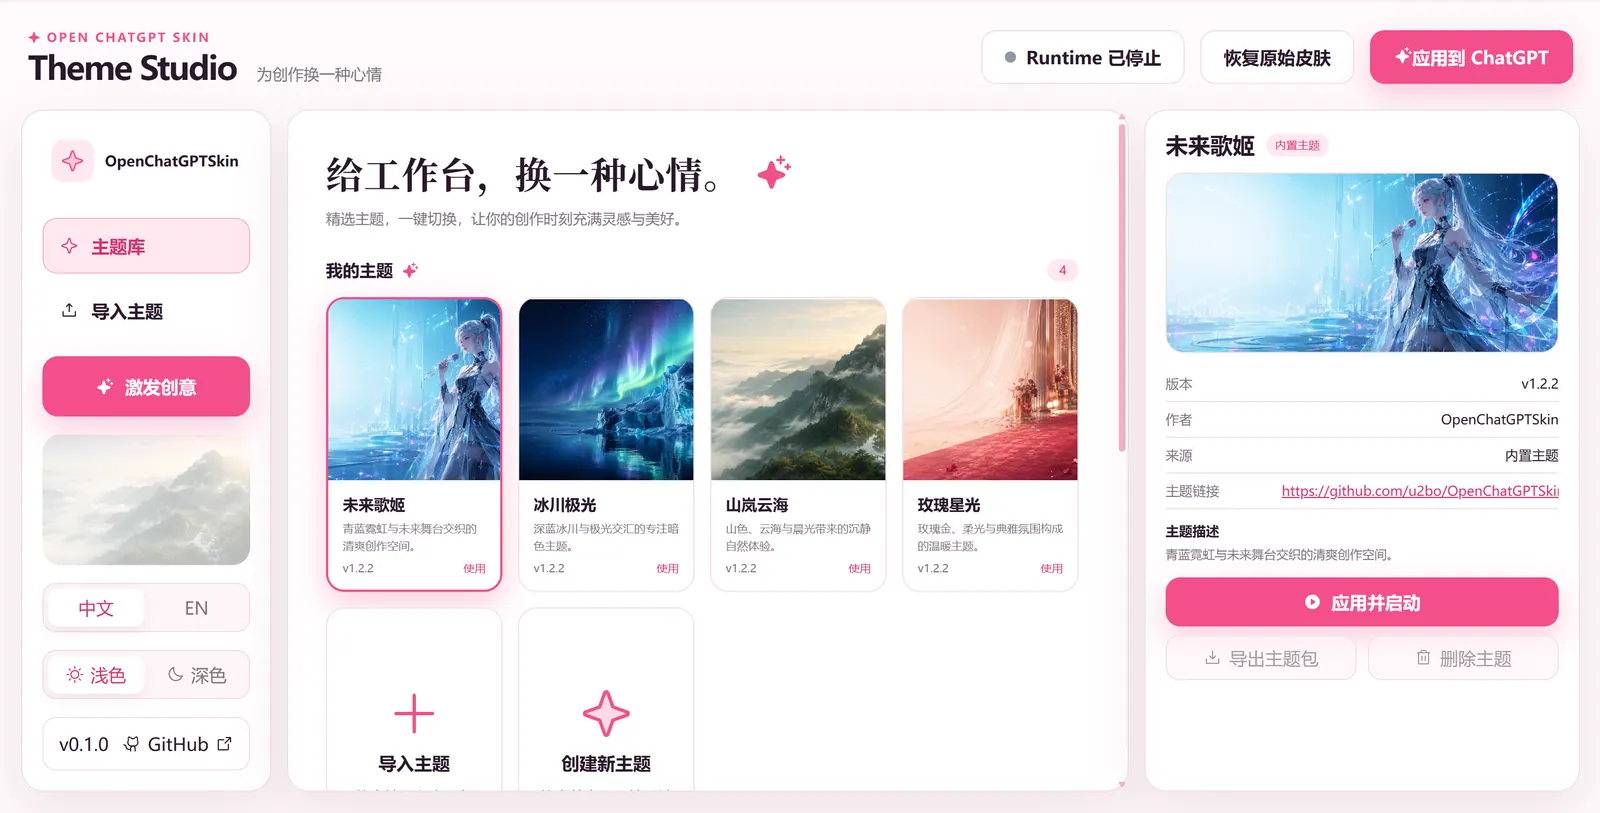
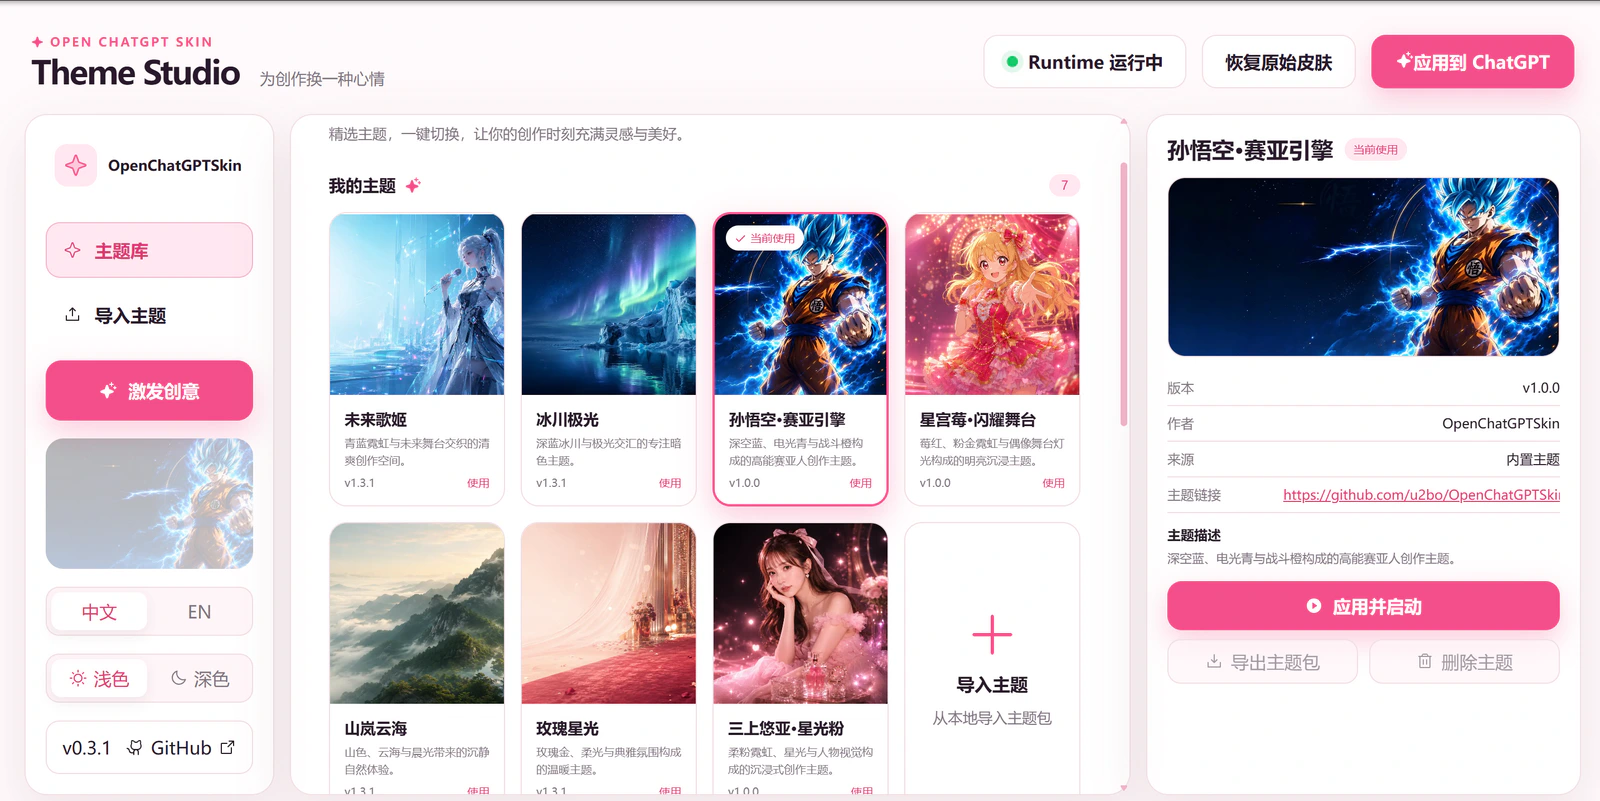
docs: refresh theme readme

diff --git a/tests/docs.test.ts b/tests/docs.test.ts
@@ -63,11 +63,16 @@ describe("project documentation", () => {
       "docs/assets/screenshots/index1.webp", "docs/assets/screenshots/index2.webp",
       "docs/assets/screenshots/hoshimiya-ichigo-shining-stage-real.png",
       "docs/assets/screenshots/goku-saiyan-engine-real.png",
-      "docs/assets/concepts/super-saiyan-goku.png",
       "CONTRIBUTING.md", "MIT License",
     ]) expect(readme).toContain(required);
     expect(readme).not.toContain("docs/assets/concepts/ichigo-hoshimiya.png");
+    expect(readme).not.toContain("docs/assets/concepts/super-saiyan-goku.png");
     expect(readmeEn).toContain("README.md");
+    for (const document of [readme, readmeEn]) {
+      expect(document.indexOf("hoshimiya-ichigo-shining-stage")).toBeLessThan(
+        document.indexOf("yua-mikami-starlight"),
+      );
+    }
     expect(readme).toContain("https://linux.do/");
     expect(readmeEn).toContain("https://linux.do/");
     expect(guide).toContain("Theme Schema v4");

diff --git a/README.en.md b/README.en.md
@@ -30,24 +30,12 @@
   <img src="docs/assets/screenshots/theme-studio.webp" alt="OpenChatGPTSkin Theme Studio editor workspace">
 </details>
 
-## Concept explorations
-
-The concept below explores how far OpenChatGPTSkin can be customized in a high-energy sci-fi direction and is shown at its original aspect ratio. Both Ichigo Hoshimiya Shining Stage and Goku Saiyan Engine are released themes; see their real-app screenshots under [Built-in themes](#built-in-themes).
-
-> [!NOTE]
-> Concept artwork does not imply an official relationship with any depicted person, work, or rights holder. Goku Saiyan Engine ships in `v0.3.2`; character-theme assets are not automatically covered by the project MIT License.
-
-### Super Saiyan engine concept
-
-<img src="docs/assets/concepts/super-saiyan-goku.png" width="100%" alt="Complete Super Saiyan Goku OpenChatGPTSkin concept">
-
 > [!IMPORTANT]
 > `v0.3.2` is the stable unified Go Host release for Windows x64, macOS ARM64, and macOS x64. Its six installer/portable artifacts include seven Theme Schema v4 themes, including Goku Saiyan Engine, plus more reliable Runtime restore verification while ChatGPT is committing its initial surface and corrected focal points for character-theme Studio thumbnails. No user package bundles Node.js or requires Git, Go, or development dependencies. macOS artifacts remain unsigned and unnotarized, so use the standard Control-click → **Open** flow without disabling Gatekeeper. Save your work and **fully quit the regular ChatGPT app** before applying a theme. OpenChatGPTSkin manages only the ChatGPT instance it launches and never modifies `WindowsApps`, `Codex.app`, `app.asar`, account settings, or API configuration.
 
 ## Contents
 
 - [Overview](#overview)
-- [Concept explorations](#concept-explorations)
 - [Features](#features)
 - [Full UI coverage](#full-ui-coverage)
 - [Built-in themes](#built-in-themes)
@@ -152,6 +140,14 @@ A bright immersive idol-stage theme built from strawberry red, pink-gold neon, a
 
 The character background and derived crops carry a separate license identifier, are not automatically covered by the MIT License, and do not imply an official relationship with the original rights holder.
 
+### Yua Mikami Starlight `yua-mikami-starlight`
+
+A dark immersive theme built from soft-pink neon, starlight, and an authorized portrait background. It uses Theme Schema v4 localized dynamic welcome text, real project-name interpolation, four independent suggestion icons, project icons, a profile avatar, and four non-interactive visual layers. Its display typography uses the bundled ZCOOL XiaoWei font under the SIL Open Font License 1.1 with system-font fallback.
+
+![Yua Mikami Starlight theme applied in ChatGPT](docs/assets/screenshots/yua-mikami-starlight.webp)
+
+Portrait and decoration assets carry separate authorization identifiers and source hashes. Read the generated theme `LICENSE.md`; do not treat these assets as MIT-licensed.
+
 ### Rose Carpet Star `rose-carpet-star`
 
 A warm rose-gold, champagne, and burgundy theme with light translucent panels for an elegant desktop appearance.
@@ -169,14 +165,6 @@ A light natural theme built around sunrise, clouds, and forest-green mountains, 
 A dark navy, glacial cyan, and aurora-violet theme for low-light environments and users who prefer high contrast.
 
 ![Glacier Aurora theme](docs/assets/screenshots/glacier-aurora.webp)
-
-### Yua Mikami Starlight `yua-mikami-starlight`
-
-A dark immersive theme built from soft-pink neon, starlight, and an authorized portrait background. It uses Theme Schema v4 localized dynamic welcome text, real project-name interpolation, four independent suggestion icons, project icons, a profile avatar, and four non-interactive visual layers. Its display typography uses the bundled ZCOOL XiaoWei font under the SIL Open Font License 1.1 with system-font fallback.
-
-![Yua Mikami Starlight theme applied in ChatGPT](docs/assets/screenshots/yua-mikami-starlight.webp)
-
-Portrait and decoration assets carry separate authorization identifiers and source hashes. Read the generated theme `LICENSE.md`; do not treat these assets as MIT-licensed.
 
 ## Installation
 
